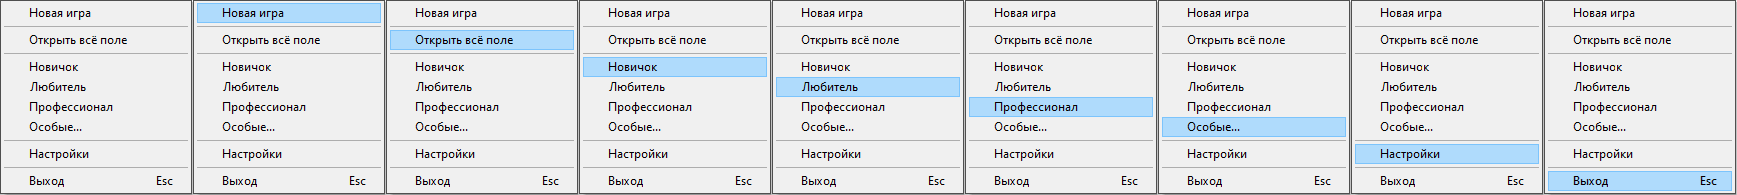
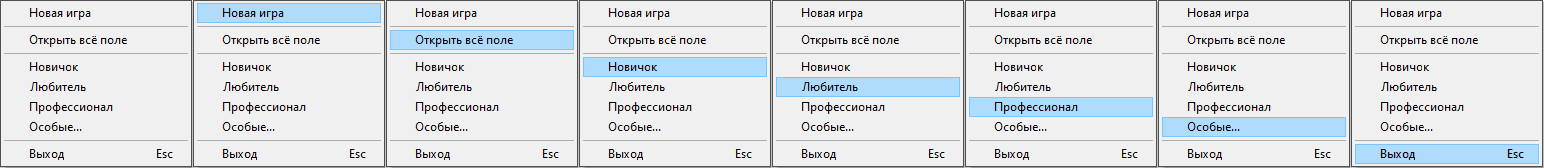
Кнопка рестарт

diff --git a/Game/Main.cpp b/Game/Main.cpp
@@ -27,13 +27,17 @@ int main()
     int timeInMenu = 0;
     long long lastTime = 0;
     int speed = 10;
-
     bool isAutoSolve = 0;
 
+    Text timeInGame(to_string(999 - gameTime), font, 18);
+    timeInGame.setStyle(Text::Bold);
+    timeInGame.setFillColor(Color::Red);
+    timeInGame.setPosition(Vector2f(window.getSize().x - 55, 36));
     //Menu(window, game);
 
     while (window.isOpen())
     {
+        bool isNewLevel = 0;
         Event event;
         while (window.pollEvent(event))
         {
@@ -43,12 +47,23 @@ int main()
                 if (event.key.code == Keyboard::F1) {
                     int currTime = gameTimeClock.getElapsedTime().asSeconds();
                     if (Menu(window, game)) {
-                        gameTimeClock.restart();
-                        gameTime = 0;
-                        timeInMenu = 0;
-                        isAutoSolve = 0;
-                        lastTime = 0;
+                        isNewLevel = 1;
                     }else timeInMenu += gameTimeClock.getElapsedTime().asSeconds() - currTime;
+                }
+                else if (event.key.code == Keyboard::F2) {
+                    if (game.GetLevel() != 1)window.create(VideoMode(10 * Cell::size + 20, 8 * Cell::size + 90), "MineSweeper", Style::Close);//254 + 15, 290
+                    game.newGame(1);
+                    isNewLevel = 1;
+                }
+                else if (event.key.code == Keyboard::F3) {
+                    if (game.GetLevel() != 2)window.create(VideoMode(20 * Cell::size + 20, 13 * Cell::size + 90), "MineSweeper", Style::Close);
+                    game.newGame(2);
+                    isNewLevel = 1;
+                }
+                else if (event.key.code == Keyboard::F4) {
+                    if (game.GetLevel() != 3)window.create(VideoMode(33 * Cell::size + 20, 20 * Cell::size + 90), "MineSweeper", Style::Close);
+                    game.newGame(3);
+                    isNewLevel = 1;
                 }
                 else if (event.key.code == Keyboard::Escape) {
                     window.close();
@@ -76,13 +91,9 @@ int main()
                     int res = DDMenu.selectOption(mousePos.x, mousePos.y);
                     long long currTime = gameTimeClock.getElapsedTime().asSeconds();
                     res = processingResult(window, game, res);
-                    if (mousePos.x > window.getSize().x / 2 - 12 && mousePos.x < window.getSize().x / 2 + 13 && mousePos.y > 36 && mousePos.y < 61)res = processingResult(window, game, 1);
+                    if (mousePos.x >= window.getSize().x / 2 - 16 && mousePos.x <= window.getSize().x / 2 + 17 && mousePos.y >= 31 && mousePos.y <= 64)res = processingResult(window, game, 1);
                     if (res == 1) {//if new game
-                        gameTimeClock.restart();
-                        gameTime = 0;
-                        timeInMenu = 0;
-                        isAutoSolve = 0;
-                        lastTime = 0;
+                        isNewLevel = 1;
                     }
                     else if (res == 2) {//start auto resolve
                         timeInMenu += gameTimeClock.getElapsedTime().asSeconds() - currTime;
@@ -119,6 +130,15 @@ int main()
             }
         }
 
+        if (isNewLevel) {
+            gameTimeClock.restart();
+            gameTime = 0;
+            timeInMenu = 0;
+            isAutoSolve = 0;
+            lastTime = 0;
+            timeInGame.setPosition(Vector2f(window.getSize().x - 55, 36));
+        }
+
         if (game.GetIsGameRun() && !isAutoSolve) {//time calculating
             gameTime = gameTimeClock.getElapsedTime().asSeconds() - timeInMenu;
             if (gameTime > 998)game.losing(2);
@@ -126,10 +146,7 @@ int main()
         }
         else if(!isAutoSolve)gameTimeClock.restart();
 
-        Text timeInGame(to_string(999 - gameTime), font, 18);
-        timeInGame.setStyle(Text::Bold);
-        timeInGame.setFillColor(Color::Red);
-        timeInGame.setPosition(Vector2f(window.getSize().x - 55, 36));
+        timeInGame.setString(to_string(999 - gameTime));
         
 
 
@@ -353,9 +370,6 @@ int processingResult(RenderWindow& window, Game& game, int res){
         return Menu(window, game);
     }
     else if (res == 7) {
-        return Menu(window, game);
-    }
-    else if (res == 8) {
         window.close();
         return 0;
     }

diff --git a/Game/Interface.cpp b/Game/Interface.cpp
@@ -3,7 +3,7 @@
 Interface::Interface(){
 	subMenuIm.loadFromFile("Images/subMenu.Gif");
 	CountersIm.loadFromFile("Images/Counters.Gif");
-    SmileIm.loadFromFile("Images/Smile.Gif");
+    RestartIm.loadFromFile("Images/Restart.png");
     subMenuStatus = 0;
     subMenuStatus = 0;
     isDDMenu = false;
@@ -31,10 +31,10 @@ void Interface::draw(RenderTarget& target, RenderStates states) const{
     Counters.setPosition(20, 31);
     Counters.setTextureRect(IntRect(0, 0, 80, 33));
 
-    Sprite Smile;
-    Smile.setTexture(SmileIm);
-    Smile.setPosition(target.getSize().x / 2 - 12, 36);
-    Smile.setTextureRect(IntRect(0, 0, 25, 25));
+    Sprite Restart;
+    Restart.setTexture(RestartIm);
+    Restart.setPosition(target.getSize().x / 2 - 16, 31);
+    Restart.setTextureRect(IntRect(0, 0, 33, 33));
 
 
     target.draw(fon);
@@ -43,7 +43,7 @@ void Interface::draw(RenderTarget& target, RenderStates states) const{
     Counters.setTextureRect(IntRect(80, 0, 80, 33));
     Counters.setPosition(target.getSize().x - 100, 31);
     target.draw(Counters);
-    target.draw(Smile);
+    target.draw(Restart);
     target.draw(subMenu);
     target.draw(underMenuLine);
     underMenuLine.setPosition(0, 71);

diff --git a/Game/DownDropMenu.cpp b/Game/DownDropMenu.cpp
@@ -73,11 +73,8 @@ void DownDropMenu::setDDMenuStatus(int x, int y){//193 195
 			else if (y >= 141 && y <= 162) {//21
 				DDMenuStatus = 7;
 			}
-			else if (y >= 165 && y <= 189) {//24
+			else if (y >= 165 && y <= 187) {//24
 				DDMenuStatus = 8;
-			}
-			else if (y >= 191 && y <= 216) {//25 
-				DDMenuStatus = 9;
 			}
 			else DDMenuStatus = 1;
 		}
@@ -97,7 +94,7 @@ void DownDropMenu::draw(RenderTarget& target, RenderStates states) const{
 	DDMenu.setPosition(1, 23);
 
 	if (DDMenuStatus) {
-		DDMenu.setTextureRect(IntRect((DDMenuStatus - 1) * 193, 0, 193, 195));
+		DDMenu.setTextureRect(IntRect((DDMenuStatus - 1) * 193, 0, 193, 168));
 		target.draw(DDMenu);
 	}
 }

diff --git a/Game/Interface.h b/Game/Interface.h
@@ -7,7 +7,7 @@ using namespace sf;
 class Interface : public Drawable, public Transformable {
 	Texture subMenuIm;
 	Texture CountersIm;
-	Texture SmileIm;
+	Texture RestartIm;
 	int subMenuStatus;//0 - not active; 1 - active, 2 - 8 sprite activate
 	bool isDDMenu;
 public:
